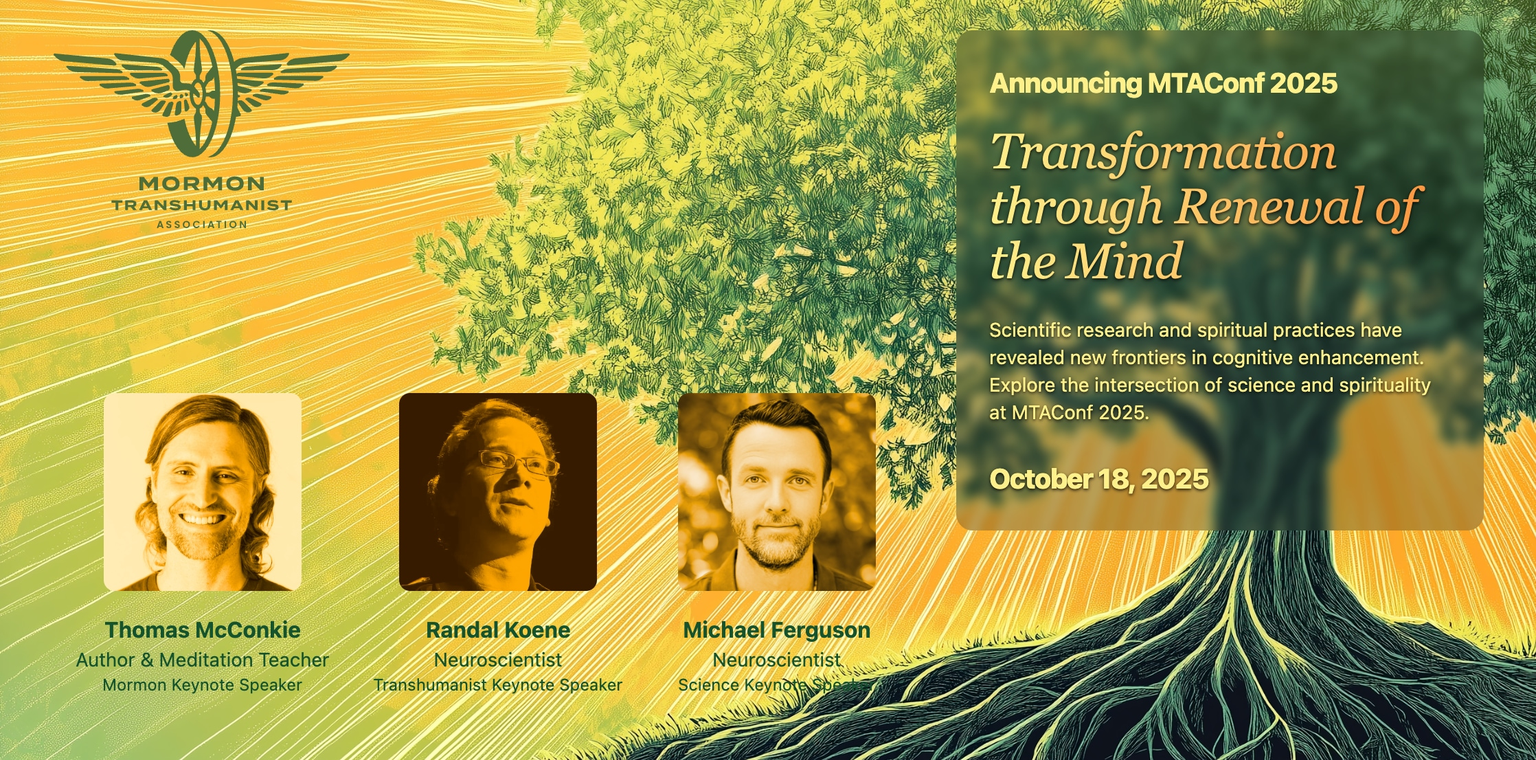
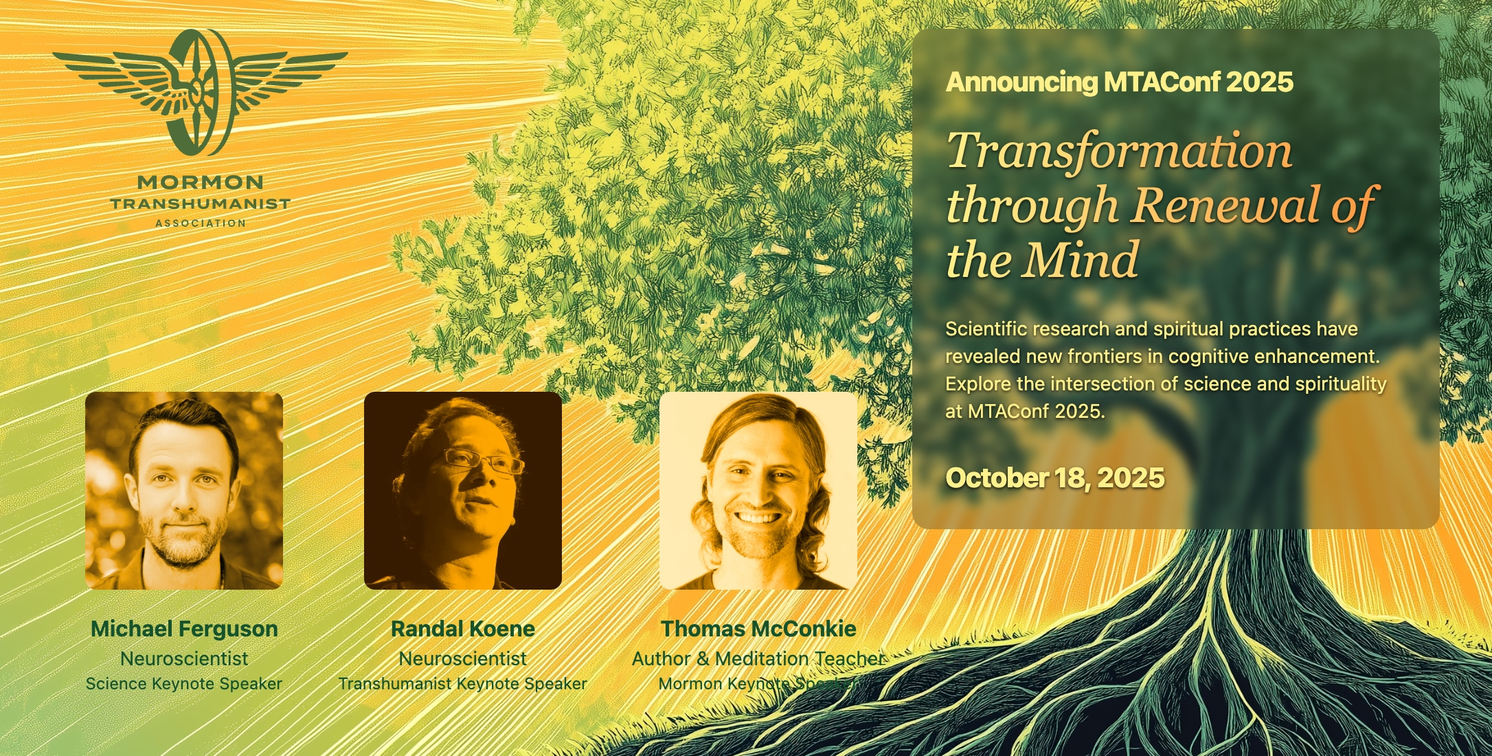
Change speaker order

diff --git a/src/2025/speakers.tsx b/src/2025/speakers.tsx
@@ -66,28 +66,31 @@ export function Speakers() {
 				<div className="mt-4">
 					<div className="grid grid-cols-1 gap-8 sm:grid-cols-3 text-center">
 						<KeynoteSpeaker
-							name="Thomas McConkie"
-							portrait="/img/2025/thomas-mcconkie.jpg"
+							name="Michael Ferguson"
+							portrait="/img/2025/michael-ferguson.jpg"
 							content={
 								<p>
-									Thomas McConkie is a meditation teacher, philosopher, and
-									author bridging contemplative traditions with modern spiritual
-									practice. The founder of{" "}
-									<a href="https://lowerlightswisdom.org/">
-										Lower Lights School of Wisdom
+									Michael Ferguson is a Harvard neuroscientist pioneering the
+									emerging field of neurospirituality. As an Instructor in
+									Neurology at{" "}
+									<a href="https://hms.harvard.edu/">Harvard Medical School</a>{" "}
+									and Founding Director of the{" "}
+									<a href="https://neurospirituality.bwh.harvard.edu/">
+										Neurospirituality Lab
 									</a>{" "}
-									and author of{" "}
-									<em>
-										Navigating Mormon Faith Crisis: A Simple Developmental Map
-									</em>
-									, Thomas brings twenty years of Buddhist meditation practice
-									together with expertise in adult developmental psychology. His
-									work explores the cross-pollination between Buddhism and
-									Mormonism, offering insights on spiritual development through
-									mindfulness practices. Thomas has developed frameworks for
-									understanding faith transitions and spiritual growth,
-									including his recent work on "At-One-Ment" and the integration
-									of contemplative practices within religious communities.
+									at{" "}
+									<a href="https://www.brighamandwomens.org/">
+										Brigham and Women's Hospital
+									</a>
+									's Center for Brain Circuit Therapeutics, Michael investigates
+									the neural correlates of spiritual experiences, prayer, and
+									meditation. His research explores how brain circuits underlie
+									religious belief and spiritual transformation, including
+									studies on the neurological effects of psychedelics on
+									consciousness. With expertise spanning bioengineering and
+									neuroscience, Michael's work examines the biological basis of
+									transcendent experiences and the intersection of neuroscience
+									with religious and spiritual phenomena.
 								</p>
 							}
 						/>
@@ -117,33 +120,29 @@ export function Speakers() {
 								</p>
 							}
 						/>
-
 						<KeynoteSpeaker
-							name="Michael Ferguson"
-							portrait="/img/2025/michael-ferguson.jpg"
+							name="Thomas McConkie"
+							portrait="/img/2025/thomas-mcconkie.jpg"
 							content={
 								<p>
-									Michael Ferguson is a Harvard neuroscientist pioneering the
-									emerging field of neurospirituality. As an Instructor in
-									Neurology at{" "}
-									<a href="https://hms.harvard.edu/">Harvard Medical School</a>{" "}
-									and Founding Director of the{" "}
-									<a href="https://neurospirituality.bwh.harvard.edu/">
-										Neurospirituality Lab
+									Thomas McConkie is a meditation teacher, philosopher, and
+									author bridging contemplative traditions with modern spiritual
+									practice. The founder of{" "}
+									<a href="https://lowerlightswisdom.org/">
+										Lower Lights School of Wisdom
 									</a>{" "}
-									at{" "}
-									<a href="https://www.brighamandwomens.org/">
-										Brigham and Women's Hospital
-									</a>
-									's Center for Brain Circuit Therapeutics, Michael investigates
-									the neural correlates of spiritual experiences, prayer, and
-									meditation. His research explores how brain circuits underlie
-									religious belief and spiritual transformation, including
-									studies on the neurological effects of psychedelics on
-									consciousness. With expertise spanning bioengineering and
-									neuroscience, Michael's work examines the biological basis of
-									transcendent experiences and the intersection of neuroscience
-									with religious and spiritual phenomena.
+									and author of{" "}
+									<em>
+										Navigating Mormon Faith Crisis: A Simple Developmental Map
+									</em>
+									, Thomas brings twenty years of Buddhist meditation practice
+									together with expertise in adult developmental psychology. His
+									work explores the cross-pollination between Buddhism and
+									Mormonism, offering insights on spiritual development through
+									mindfulness practices. Thomas has developed frameworks for
+									understanding faith transitions and spiritual growth,
+									including his recent work on "At-One-Ment" and the integration
+									of contemplative practices within religious communities.
 								</p>
 							}
 						/>

diff --git a/src/2025/hero.tsx b/src/2025/hero.tsx
@@ -51,10 +51,10 @@ export function Hero() {
 							<div className="flex flex-col sm:flex-row pb-8">
 								<div className="self-center min-w-48">
 									<Portrait
-										image="/img/2025/thomas-mcconkie.jpg"
-										name="Thomas McConkie"
-										title1="Author & Meditation Teacher"
-										title2="Mormon Keynote Speaker"
+										image="/img/2025/michael-ferguson.jpg"
+										name="Michael Ferguson"
+										title1="Neuroscientist"
+										title2="Science Keynote Speaker"
 									/>
 								</div>
 								<div className="self-center min-w-48">
@@ -67,10 +67,10 @@ export function Hero() {
 								</div>
 								<div className="self-center min-w-48">
 									<Portrait
-										image="/img/2025/michael-ferguson.jpg"
-										name="Michael Ferguson"
-										title1="Neuroscientist"
-										title2="Science Keynote Speaker"
+										image="/img/2025/thomas-mcconkie.jpg"
+										name="Thomas McConkie"
+										title1="Author & Meditation Teacher"
+										title2="Mormon Keynote Speaker"
 									/>
 								</div>
 							</div>
@@ -95,7 +95,7 @@ export function Hero() {
 										<div className="mt-3 text-md sm:text-xl tracking-tight font-extrabold text-yellow-200 drop-shadow-[0_1.2px_1.2px_rgba(0,0,0,0.8)]">
 											October 18, 2025
 										</div>
-										<div className="mt-4 sm:mt-6">
+										{/* <div className="mt-4 sm:mt-6">
 											<div className="sm:flex">
 												<div className="min-w-0 flex-1">
 													<a href="https://www.ticketsource.us/mormon-transhumanist-association">
@@ -108,7 +108,7 @@ export function Hero() {
 													</a>
 												</div>
 											</div>
-										</div>
+										</div> */}
 									</div>
 								</div>
 							</div>
